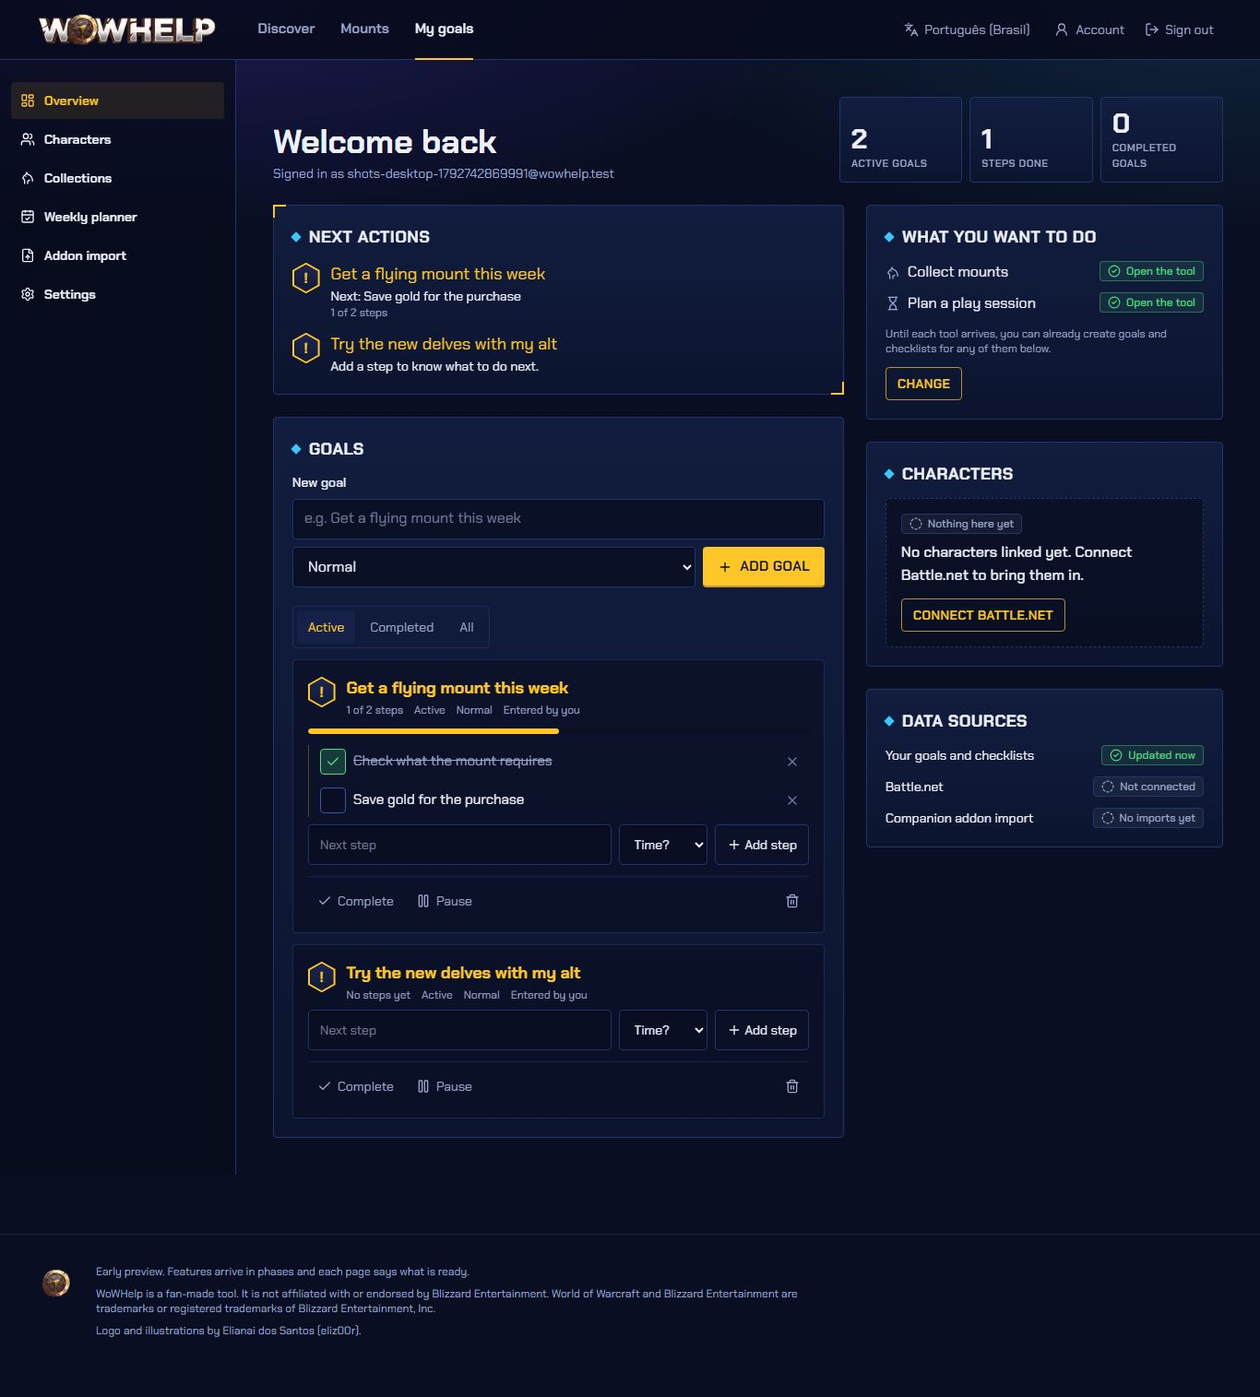
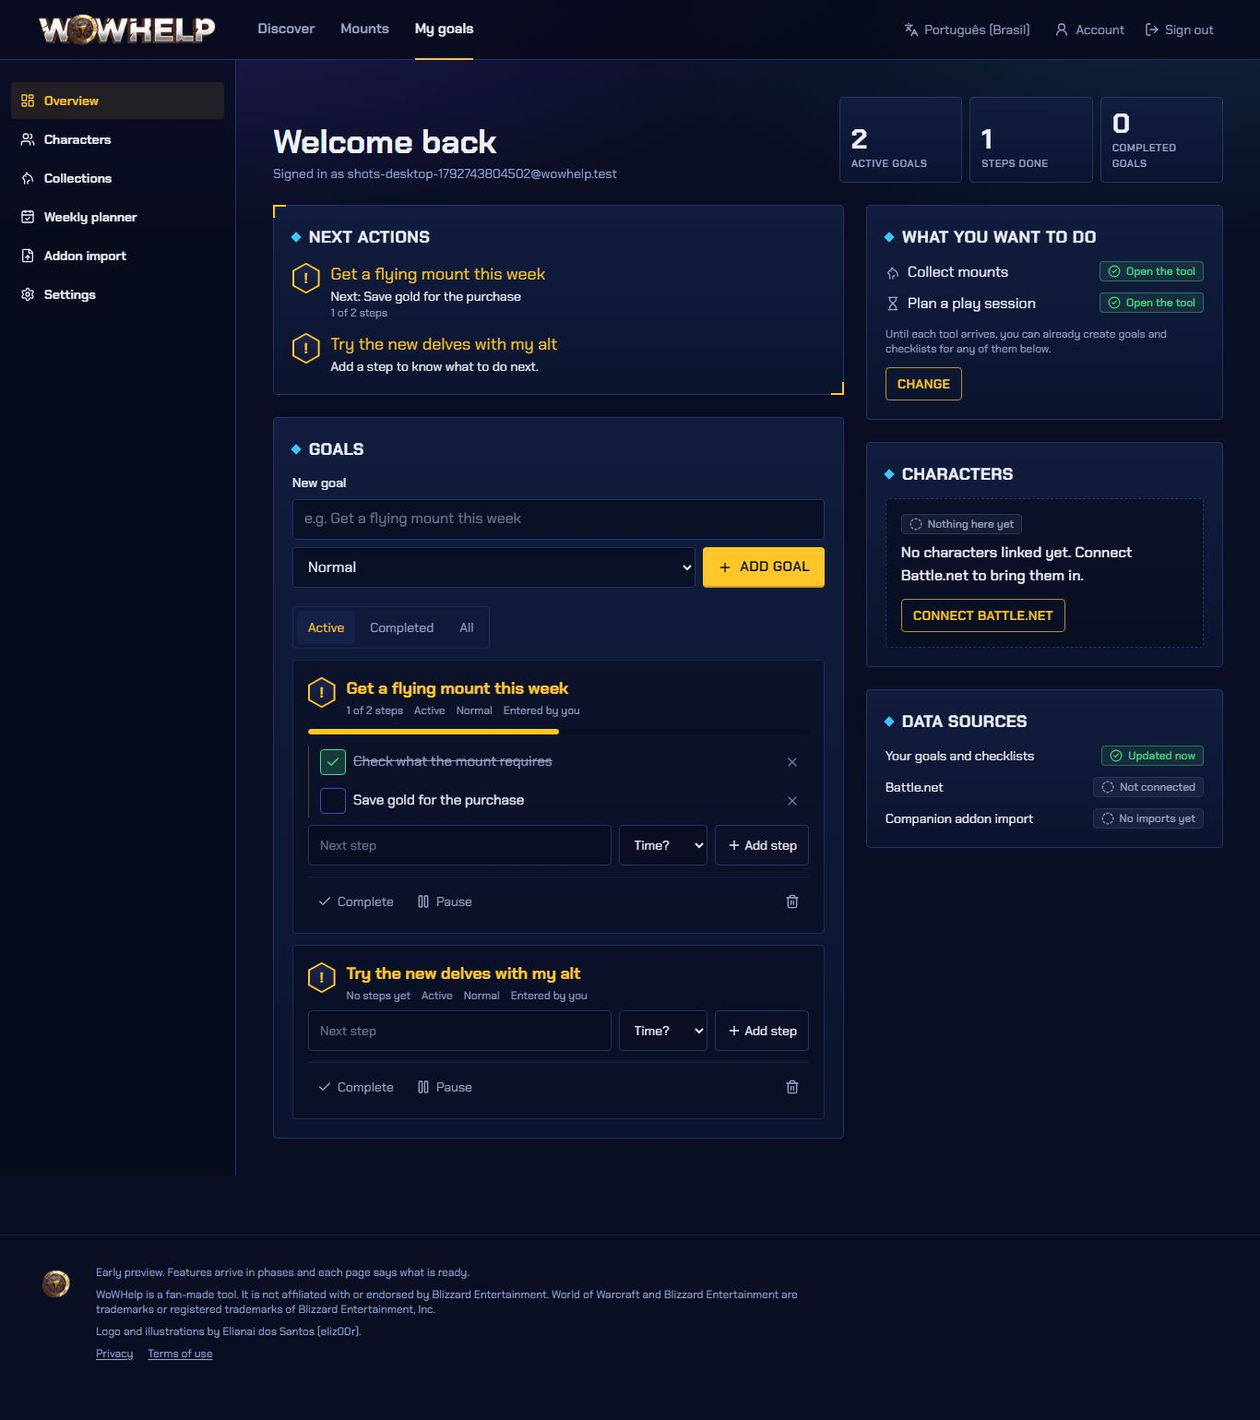
Documenta a Fase 6: operação, beta e checklist legal
Resposta a incidentes, backup e rollback, plano de beta, checklist para
a revisão jurídica, relatório da fase com o go live, decisões T30 a T34
e capturas novas.

diff --git a/docs/fase-6/relatorio-fase-6.md b/docs/fase-6/relatorio-fase-6.md
@@ -1,0 +1,51 @@
+# Fase 6 | Beta: relatório
+
+Data: 24/10/2026 (madrugada). Gate (planning/docs/02): fluxos críticos aprovados, incident response escrito, política de exclusão de conta testada e checklist legal concluído.
+
+## Situação do gate
+
+| Critério | Situação | Evidência |
+| --- | --- | --- |
+| Fluxos críticos aprovados | **Feito nos testes automáticos**: 70 E2E (desktop e celular) cobrem cadastro, objetivo, montaria, Battle.net (falsa), planejador, importação do addon, exportar e excluir conta. Falta o teste real (Battle.net e jogo) pelo Bruno | `apps/web/tests/e2e/` |
+| Incident response escrito | Feito | [resposta-a-incidentes.md](../operacao/resposta-a-incidentes.md) |
+| Exclusão de conta testada | Feito: E2E (confirma pelo e-mail, apaga, não deixa entrar de novo) e pgTAP (apaga em todas as tabelas sem tocar em outra conta) | `account.spec.ts`, `05_audit_and_account_deletion.test.sql` |
+| Checklist legal concluído | **Pendente: depende de revisão jurídica.** Rascunhos no ar e checklist pronto para o profissional | [checklist-legal.md](checklist-legal.md) |
+
+## O que entrou
+
+- **Privacidade e termos** (rascunho, en e pt-BR) em `/privacy` e `/terms`, com aviso de revisão, índice lateral, links no rodapé e no cadastro.
+- **Baixar meus dados**: JSON com todas as tabelas da conta (lido com a sessão do jogador, então nunca inclui dado de outra conta).
+- **Excluir conta**: pede o e-mail da conta digitado; apaga tudo na hora e limpa a sessão.
+- **Auditoria de acesso ao banco** (pgTAP): toda tabela tem RLS, visitante só lê o catálogo, o navegador nunca escolhe `user_id`.
+- **Advisors do Supabase**: corrigido o aviso da função `rls_auto_enable` (criada pelo Supabase); sobra "proteção contra senha vazada", que é do plano pago.
+- **Limite de abuso**: no máximo 30 importações do addon por dia por conta.
+- **Eventos nos logs** (sem dados pessoais): `objective_created`, `battlenet_link_succeeded/failed`, `addon_import_succeeded/failed`, `account_exported`, `account_deleted`.
+- **Backup e rollback** documentados: [backup-e-rollback.md](../operacao/backup-e-rollback.md).
+- **Plano de beta**: [plano-de-beta.md](plano-de-beta.md).
+- Contas de teste noturnas apagadas da produção (só a conta do Bruno ficou).
+- Testes do banco agora começam do zero dentro da transação, sem depender do que já existe no banco local.
+
+## Checklist de go live (planning/docs/09)
+
+| Item | Situação |
+| --- | --- |
+| Fonte oficial e limites de Battle.net confirmados | Parcial: fonte e limites documentados na Fase 0; falta teste real com conta |
+| Migrations revistas e RLS auditada | Feito (63 testes pgTAP + advisors) |
+| Mobile e PWA testados | Parcial: E2E no Pixel 7 e axe; falta teste em iPhone/Safari real |
+| Addon testado no patch Retail vigente | **Pendente (Bruno)** |
+| Retenção e exclusão de dados implementadas | Feito |
+| Assets com direitos verificados | Parcial: cessão da Elianai registrada; revisar no jurídico |
+| Conteúdo editorial de 30 montarias revisado | Pendente: precisa de revisão humana |
+| Páginas legais e aviso de não afiliação definidos | Rascunho no ar; aviso de não afiliação em todas as páginas |
+| Monitoramento e alertas funcionando | Parcial: logs na Vercel e e-mail do GitHub quando a importação falha; sem alerta de erro do site |
+| Backup e rollback documentados | Feito (falta escolher Supabase Pro ou cópia manual) |
+| Domínio apontado somente após validação de produção | Sem domínio próprio por enquanto (wowhelp.vercel.app) |
+
+## Pendências que dependem do Bruno
+
+1. Testar a Battle.net com a conta real (Personagens > Conectar).
+2. Testar o addon no jogo (roteiro em [relatorio-fase-5.md](../fase-5/relatorio-fase-5.md)).
+3. Revisão jurídica e decisão sobre o nome.
+4. SMTP próprio para ligar a confirmação de e-mail.
+5. Escolher backup: Supabase Pro ou cópia manual semanal.
+6. Escolher o grupo do alpha (3 a 5 pessoas).

diff --git a/README.md b/README.md
@@ -2,7 +2,7 @@
 
 Assistente para jogadores de World of Warcraft Retail: o jogador escolhe o que quer fazer hoje, transforma isso em objetivos e passos curtos e vê de onde vem cada informação. Web responsiva, instalável como app (PWA), em inglês e português do Brasil.
 
-**Status:** Fases 0 a 5 concluídas no código; Fase 6 (beta) em preparação. Prévia no ar em https://wowhelp.vercel.app (sem divulgação pública). O que depende de teste real (Battle.net, jogo) e de revisão jurídica está em [docs/a-fazer.md](docs/a-fazer.md).
+**Status:** Fases 0 a 6 concluídas no código; o beta depende de revisão jurídica e dos testes reais listados no quadro. Prévia no ar em https://wowhelp.vercel.app (sem divulgação pública). O que depende de teste real (Battle.net, jogo) e de revisão jurídica está em [docs/a-fazer.md](docs/a-fazer.md).
 
 ## O que já funciona
 
@@ -13,6 +13,7 @@ Assistente para jogadores de World of Warcraft Retail: o jogador escolhe o que q
 - Catálogo de montarias com dados oficiais da Blizzard, busca, filtros e status coletada / não obtida / desconhecida.
 - Planejador semanal (reset por região) e de sessão (15, 30, 60, 120+ minutos).
 - Addon **WoWHelp Companion** (Lua) e importação segura do arquivo no site, com prévia, escolha do que importar e exclusão.
+- Privacidade (LGPD): baixar meus dados, excluir conta, política de privacidade e termos (rascunhos em revisão).
 - Inglês e português do Brasil em todas as telas, com troca de idioma.
 - PWA: manifest, ícones, service worker restrito e página offline.
 - Banco com RLS: cada conta só vê os próprios dados (testado com pgTAP e E2E).
@@ -23,7 +24,7 @@ Assistente para jogadores de World of Warcraft Retail: o jogador escolhe o que q
 apps/web/                 Next.js 16 (App Router), React 19, TypeScript, Tailwind v4
   src/app/[locale]/       Páginas por idioma (/en, /pt-br)
   src/features/           Um módulo por sistema: auth, goals, onboarding, profile,
-                          battlenet, catalog, planner, addon
+                          battlenet, catalog, planner, addon, account, legal
   src/components/         UI compartilhada: ui/, layout/, brand/, pwa/
   src/i18n/               Rotas de idioma (next-intl)
   src/lib/                Supabase, Battle.net, URLs
@@ -67,7 +68,8 @@ O CI (`.github/workflows/ci.yml`) roda tudo isso em cada PR.
 
 - [Quadro de tarefas](docs/a-fazer.md) e [decisões técnicas](docs/decisoes.md)
 - [Fase 0: relatório](docs/fase-0/relatorio-fase-0.md), [cobertura de dados Battle.net e addon](docs/fase-0/cobertura-de-dados-battlenet-e-addon.md), [inventário de assets](docs/fase-0/inventario-de-assets.md)
-- Relatórios: [Fase 1](docs/fase-1/relatorio-fase-1.md), [Fase 2](docs/fase-2/relatorio-fase-2.md), [Fase 3](docs/fase-3/relatorio-fase-3.md), [Fase 4](docs/fase-4/relatorio-fase-4.md), [Fase 5](docs/fase-5/relatorio-fase-5.md)
+- Relatórios: [Fase 1](docs/fase-1/relatorio-fase-1.md), [Fase 2](docs/fase-2/relatorio-fase-2.md), [Fase 3](docs/fase-3/relatorio-fase-3.md), [Fase 4](docs/fase-4/relatorio-fase-4.md), [Fase 5](docs/fase-5/relatorio-fase-5.md), [Fase 6](docs/fase-6/relatorio-fase-6.md)
+- Operação: [resposta a incidentes](docs/operacao/resposta-a-incidentes.md), [backup e rollback](docs/operacao/backup-e-rollback.md), [plano de beta](docs/fase-6/plano-de-beta.md), [checklist legal](docs/fase-6/checklist-legal.md)
 - [Addon WoWHelp Companion](addon/WoWHelpCompanion/README.md)
 - [Identidade visual e pesquisa de layout](docs/design/identidade-visual.md)
 - [Planejamento original](planning/README.md)

diff --git a/docs/operacao/resposta-a-incidentes.md b/docs/operacao/resposta-a-incidentes.md
@@ -1,0 +1,51 @@
+# Resposta a incidentes
+
+Para quando algo sério acontecer: vazamento de dados, chave exposta, site fora do ar, conta invadida. Escrito para o Bruno seguir sem precisar ler código.
+
+## 1. Classificar (5 minutos)
+
+| Nível | Exemplos | Prazo para agir |
+| --- | --- | --- |
+| **Crítico** | Chave secreta publicada (GitHub, chat, print), dados de uma conta aparecendo para outra, banco acessado por quem não devia | Agora |
+| **Alto** | Site fora do ar, login quebrado, conexão Battle.net falhando para todos | No mesmo dia |
+| **Médio** | Catálogo de montarias desatualizado, importação do addon falhando, página com erro | Em até 3 dias |
+
+## 2. Conter
+
+**Chave exposta** (troque só a que vazou):
+
+1. **Supabase, chave secreta:** painel do Supabase > projeto "wowhelp site" > Project Settings > API Keys > crie uma nova "secret key" e apague a antiga. Depois, na Vercel (projeto "wowhelp" > Settings > Environment Variables), troque `SUPABASE_SECRET_KEY` e clique em "Redeploy".
+2. **Battle.net:** develop.battle.net > cliente do WoWHelp > gere um novo "Client Secret". Na Vercel, troque `BATTLENET_CLIENT_SECRET` e faça "Redeploy".
+3. **CRON_SECRET** (importação do catálogo): gere um texto aleatório novo, troque na Vercel e no GitHub (repositório wowhelpbr/WoWHelp > Settings > Secrets and variables > Actions).
+4. **Senha de conta (GitHub, Vercel, Supabase, Battle.net):** troque a senha e confira se a verificação em duas etapas está ligada.
+
+**Site com defeito depois de uma atualização:** volte para a versão anterior (veja [backup-e-rollback.md](backup-e-rollback.md), "Voltar o site").
+
+**Desligar a Battle.net às pressas:** apague `BATTLENET_CLIENT_ID` na Vercel e faça "Redeploy". O site passa a mostrar "conexão indisponível" sem quebrar o resto.
+
+**Conta de jogador invadida:** no Supabase > Authentication > Users, procure o e-mail e use "Delete user" (apaga a conta e os dados) ou "Send password recovery".
+
+## 3. Avisar (dados pessoais envolvidos)
+
+Pela LGPD (art. 48), incidente com risco ou dano relevante aos jogadores precisa ser comunicado à **ANPD** e aos **jogadores afetados**. O regulamento da ANPD (Resolução CD/ANPD nº 15/2024) fala em **3 dias úteis** a partir de quando se sabe que o incidente envolveu dados pessoais. Confirmar prazos e formulário com o jurídico antes do beta.
+
+Anote desde o começo: o que aconteceu, quando foi descoberto, quais dados e quantas contas, o que já foi feito.
+
+## 4. Recuperar
+
+- Confira o site em produção: cadastro, login, painel, montarias, importação do addon.
+- Rode a importação do catálogo de novo se o catálogo foi afetado: GitHub > Actions > "Catálogo oficial" > "Run workflow".
+- Dados apagados por engano: ver [backup-e-rollback.md](backup-e-rollback.md).
+
+## 5. Depois (até 1 semana)
+
+Escreva em `docs/operacao/incidentes/AAAA-MM-DD-nome.md`: o que aconteceu, causa, impacto, o que foi feito, o que muda para não repetir. Sem culpados, só causas.
+
+## Onde olhar quando algo parece errado
+
+| O quê | Onde |
+| --- | --- |
+| Erros do site | Vercel > projeto "wowhelp" > Logs (eventos em JSON, sem dados pessoais: `addon_import_failed`, `battlenet_link_failed`, etc.) |
+| Importação do catálogo | GitHub > Actions > "Catálogo oficial" (o GitHub manda e-mail quando falha) |
+| Testes automáticos | GitHub > Actions > "CI" |
+| Banco e login | Supabase > projeto "wowhelp site" > Logs e Advisors |

diff --git a/docs/fase-6/checklist-legal.md b/docs/fase-6/checklist-legal.md
@@ -1,0 +1,33 @@
+# Checklist legal (para a revisão jurídica)
+
+Os textos estão no site como **rascunho** ([/pt-br/privacy](https://wowhelp.vercel.app/pt-br/privacy) e [/pt-br/terms](https://wowhelp.vercel.app/pt-br/terms)) e no código em `apps/web/src/features/legal/content.ts`. Eles descrevem o que o sistema faz hoje. Itens para o profissional decidir ou validar:
+
+## Decisões que faltam (o site mostra "a definir")
+
+- [ ] **Controlador dos dados:** pessoa física ou empresa (nome/CNPJ) que responde pelo WoWHelp.
+- [ ] **Encarregado (DPO) e canal de contato:** e-mail próprio do WoWHelp para pedidos de titulares.
+- [ ] **Idade mínima** e regras para adolescentes (LGPD art. 14). A Blizzard tem regras próprias de idade para a Battle.net.
+- [ ] **Lei aplicável, foro e limites de responsabilidade** nos termos, respeitando o Código de Defesa do Consumidor.
+- [ ] **Nome e marca:** "WoWHelp" usa "WoW", marca da Blizzard. Avaliar risco e, se for o caso, nome alternativo antes de divulgar (vale também para publicar o addon no CurseForge/Wago).
+
+## Validar
+
+- [ ] Bases legais escolhidas: execução do serviço (conta, objetivos, planejador), consentimento (Battle.net e addon), legítimo interesse (segurança e limites).
+- [ ] Transferência internacional (art. 33): banco nos EUA (Supabase, Oregon) e hospedagem global (Vercel). Qual hipótese do art. 33 usar.
+- [ ] Retenção: Battle.net 30 dias (exigência dos termos da API da Blizzard); demais dados até o jogador apagar. Cópias de segurança do provedor.
+- [ ] Prazo e forma de comunicar incidentes (art. 48 e Resolução CD/ANPD nº 15/2024), ver `docs/operacao/resposta-a-incidentes.md`.
+- [ ] Termos da API da Blizzard (Blizzard Developer API Terms of Use): crédito, cache de no máximo 30 dias e o que é permitido em uso comercial (anúncios, assinatura). Hoje o WoWHelp é gratuito e sem anúncios.
+- [ ] Contrato das ilustrações (Elianai dos Santos): cessão cobre site, app e addon, inclusive uso comercial futuro.
+- [ ] Aviso de não afiliação com a Blizzard (rodapé de todas as páginas).
+
+## Já implementado (pode testar)
+
+| Direito do titular (art. 18) | Como o jogador faz |
+| --- | --- |
+| Acesso e portabilidade | Configurações > Baixar meus dados (JSON com todas as tabelas da conta) |
+| Correção | Edita no próprio site |
+| Eliminação | Configurações > Excluir conta (apaga tudo na hora; testado de ponta a ponta) |
+| Revogar consentimento | Personagens > Desconectar (Battle.net) e Importar addon > Apagar dados do addon |
+| Informação sobre compartilhamento | Página de privacidade, seção "Com quem os dados são tratados" |
+
+Sem cookies de analytics ou publicidade, por isso não há banner de cookies (só cookies necessários: sessão e idioma). Se um dia entrar analytics, precisa de banner e consentimento.

diff --git a/docs/operacao/backup-e-rollback.md b/docs/operacao/backup-e-rollback.md
@@ -1,0 +1,44 @@
+# Backup e rollback
+
+## O que se recupera sozinho
+
+| Parte | Onde está a cópia |
+| --- | --- |
+| Código do site e do addon | GitHub (wowhelpbr/WoWHelp), cada versão é um commit |
+| Estrutura do banco (tabelas, regras de acesso) | `supabase/migrations/` no GitHub: recria um banco vazio igual ao de produção |
+| Catálogo de montarias | Vem da Blizzard: rode de novo GitHub > Actions > "Catálogo oficial" > "Run workflow" |
+| Dados da Battle.net | O jogador conecta de novo |
+
+## O que NÃO se recupera sozinho
+
+Contas, objetivos, planejador, marcações manuais e importações do addon dos jogadores.
+
+O plano gratuito do Supabase **não tem cópia de segurança automática que dê para restaurar**. Antes do beta com jogadores de verdade, escolha uma das opções:
+
+1. **Supabase Pro** (pago): cópia diária guardada por 7 dias, restaurada pelo painel. Recomendado para o beta.
+2. **Cópia manual** (grátis, dá trabalho): uma vez por semana, no terminal, na pasta do projeto:
+   1. `npx supabase db dump --linked --data-only -f backup-AAAA-MM-DD.sql`
+   2. Guarde o arquivo **fora** do repositório e criptografado (ele tem e-mails de jogadores). Nunca suba no GitHub (o repositório é público).
+   3. Apague cópias com mais de 30 dias.
+
+## Voltar o site para a versão anterior
+
+Quando uma atualização quebrou o site:
+
+1. Vercel > projeto "wowhelp" > Deployments.
+2. Ache a última versão boa (marcada "Production" antes da atual).
+3. Menu "..." > **"Instant Rollback"** (ou "Promote to Production").
+4. Depois corrija o problema num pull request; o próximo merge no `main` publica de novo.
+
+## Voltar uma mudança no banco
+
+As migrations só andam para frente. Para desfazer uma:
+
+1. Escreva uma migration nova que desfaz (ex.: apaga a coluna criada), teste no banco local (`npx supabase db reset` e `npx supabase test db`).
+2. Aplique com `npx supabase db push --linked`.
+
+Mudança que apaga dados (apagar tabela ou coluna com conteúdo) só depois de uma cópia manual (opção 2 acima).
+
+## Teste de restauração
+
+Antes do beta: restaurar uma cópia num projeto Supabase de teste e conferir se o login e os objetivos aparecem. Cópia que nunca foi restaurada não conta como cópia.

diff --git a/docs/decisoes.md b/docs/decisoes.md
@@ -33,3 +33,8 @@ Complementa `planning/docs/10_DECISOES_E_RISCOS.md` (D01–D06 e R01–R09). Cad
 | T27 | 24/10/2026 | Importação em dois passos (prévia e confirmação), e o servidor lê o arquivo de novo na confirmação; o mesmo arquivo (hash SHA-256) não entra duas vezes | O navegador não pode "mandar" a prévia pronta; repetição não duplica histórico | — |
 | T28 | 24/10/2026 | Coleção do addon vale como lista completa por 30 dias (igual à Battle.net); dados do addon ficam até o jogador apagar | Dado do próprio jogo do jogador, não da Web API da Blizzard (o TTL de 30 dias dos termos da API não se aplica), mas "não obtida" precisa de leitura recente | Se o jurídico pedir prazo de retenção |
 | T29 | 24/10/2026 | Zip do addon gerado por script determinístico e versionado em `public/downloads`, conferido por teste | Download direto do site, sem depender de CurseForge antes do teste no jogo e da decisão sobre o nome | Ao publicar em CurseForge/Wago |
+| T30 | 24/10/2026 | Exclusão de conta pelo `auth.admin.deleteUser` (servidor) com o e-mail digitado como confirmação; os dados somem por `on delete cascade` | Uma única operação apaga tudo, testada no pgTAP; confirmar pelo e-mail evita clique acidental sem pedir senha de novo | Se entrar login social (sem senha) ou período de arrependimento |
+| T31 | 24/10/2026 | Exportação de dados lida com a sessão do jogador (RLS), em JSON, sem cache | Nunca inclui linha de outra conta, mesmo com bug no filtro | Se surgir dado guardado fora das tabelas públicas |
+| T32 | 24/10/2026 | Páginas legais em código (`features/legal/content.ts`), marcadas como rascunho até a revisão jurídica | O texto descreve exatamente o que o sistema faz e muda junto com o código | Depois da revisão jurídica |
+| T33 | 24/10/2026 | Eventos de produto só nos logs da Vercel, em JSON, sem dados pessoais; nada de analytics de terceiros | Sem rastreador não há banner de cookies; atende a lista de eventos do doc 09 | Se o beta precisar de funil (avaliar analytics sem cookie) |
+| T34 | 24/10/2026 | `rls_auto_enable` (função criada pelo Supabase) sem EXECUTE para anon e authenticated | Aviso do advisor; a função só roda como gatilho de evento | — |

diff --git a/docs/fase-6/plano-de-beta.md b/docs/fase-6/plano-de-beta.md
@@ -1,0 +1,32 @@
+# Plano de beta
+
+Base: planning/docs/09 ("Beta gradual"). Nada disso começa sem o Bruno: o grupo de beta, os convites e a divulgação são decisão dele.
+
+## Antes de convidar alguém
+
+- [ ] Revisão jurídica e decisão sobre o nome ([checklist-legal.md](checklist-legal.md)).
+- [ ] SMTP próprio (ex.: Resend) e confirmação de e-mail ligada.
+- [ ] Cópia de segurança do banco (Supabase Pro ou cópia manual, ver [backup-e-rollback.md](../operacao/backup-e-rollback.md)).
+- [ ] Teste real da Battle.net e do addon no jogo pelo Bruno.
+
+## Etapa 1: alpha interno (3 a 5 contas)
+
+Pessoas próximas, cada uma com um perfil: colecionador de montarias, jogador de semanais, quem tem muitos alts, jogador casual com pouco tempo, jogador novo.
+
+Tarefas pedidas a cada um (uma sessão de 20 minutos):
+
+1. Criar conta e escolher o que quer fazer.
+2. Conectar a Battle.net **ou** importar o addon.
+3. Achar uma montaria que não tem e transformar em objetivo.
+4. Montar uma sessão de 30 minutos no planejador.
+5. Dizer, no fim: "o que você faria agora no jogo?" (métrica norte: saber a próxima atividade útil sem abrir outra ferramenta).
+
+## Etapa 2: beta fechado (20 a 50 jogadores)
+
+- Convite por link, com prazo de 2 a 3 semanas.
+- Formulário curto ao fim de cada semana: o que usou, o que travou, o que faltou, nota de 0 a 10.
+- Acompanhar nos logs da Vercel: `battlenet_link_failed`, `addon_import_failed`, `objective_created`.
+
+## Etapa 3: abrir
+
+Só depois de corrigir os problemas da etapa 2 e de revisar o que mais travou.

diff --git a/docs/a-fazer.md b/docs/a-fazer.md
@@ -10,7 +10,10 @@ Atualizado na madrugada de 24/10/2026. Tarefas de até ~4 horas, com resultado v
 - [x] Variáveis na Vercel (Supabase e Battle.net)
 - [x] Cadastro, painel e objetivo salvo testados em https://wowhelp.vercel.app
 - [!] SMTP próprio (ex.: Resend) para ligar a confirmação de e-mail antes do beta público
-- [ ] Apagar as contas de teste `qa-noturno-*@wowhelp.test` (via exclusão de conta da Fase 6)
+- [x] Apagar as contas de teste `qa-noturno-*@wowhelp.test`
+- [!] Escolher backup: Supabase Pro (cópia diária) ou cópia manual semanal (docs/operacao/backup-e-rollback.md)
+- [ ] Proteção contra senha vazada (Supabase, plano pago)
+- [ ] Alerta automático de erro do site (hoje só logs na Vercel)
 
 ## Fase 2: Battle.net
 
@@ -44,6 +47,9 @@ Atualizado na madrugada de 24/10/2026. Tarefas de até ~4 horas, com resultado v
 
 ## Fase 6: Beta
 
-- [ ] Política de privacidade e termos (rascunho para revisão jurídica)
-- [ ] Exportar meus dados e excluir conta
-- [!] Revisão jurídica, decisão sobre o nome, grupo de beta
+- [x] Política de privacidade e termos (rascunho no ar, checklist para revisão em docs/fase-6/checklist-legal.md)
+- [x] Exportar meus dados e excluir conta (testados de ponta a ponta)
+- [x] Auditoria de RLS e advisors do Supabase
+- [x] Resposta a incidentes, backup e rollback, plano de beta (docs/operacao e docs/fase-6)
+- [!] Revisão jurídica, decisão sobre o nome, grupo do alpha
+- [ ] Teste em iPhone/Safari real

diff --git a/CHANGELOG.md b/CHANGELOG.md
@@ -1,5 +1,16 @@
 # Changelog
 
+## 0.6.0 (prévia, sem divulgação) | 24/10/2026
+
+Fase 6 (preparação do beta).
+
+- Política de privacidade e termos de uso (rascunhos em revisão jurídica), com links no rodapé e no cadastro.
+- Configurações: baixar meus dados (JSON) e excluir conta com confirmação pelo e-mail.
+- Auditoria de RLS (pgTAP) e correção do aviso de segurança do Supabase sobre a função rls_auto_enable.
+- Limite de 30 importações do addon por dia; eventos de produto nos logs sem dados pessoais.
+- Documentos de resposta a incidentes, backup e rollback, plano de beta e checklist legal.
+- Testes: 82 unitários do domínio, 29 do site, 63 de banco, 70 E2E.
+
 ## 0.5.0 (prévia, sem divulgação) | 24/10/2026
 
 Fases 2 a 5.
